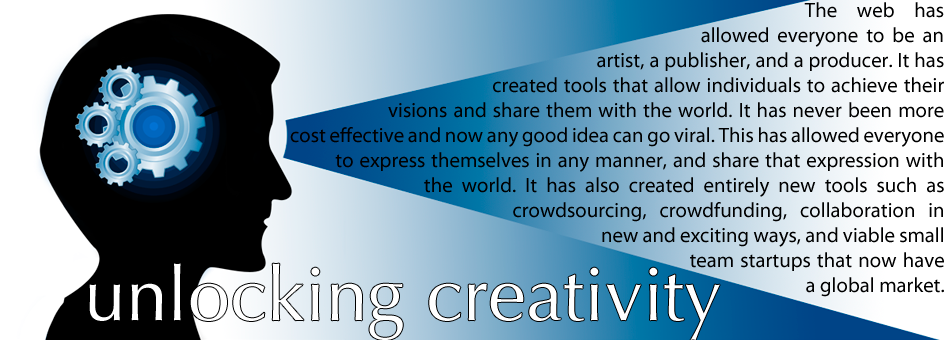
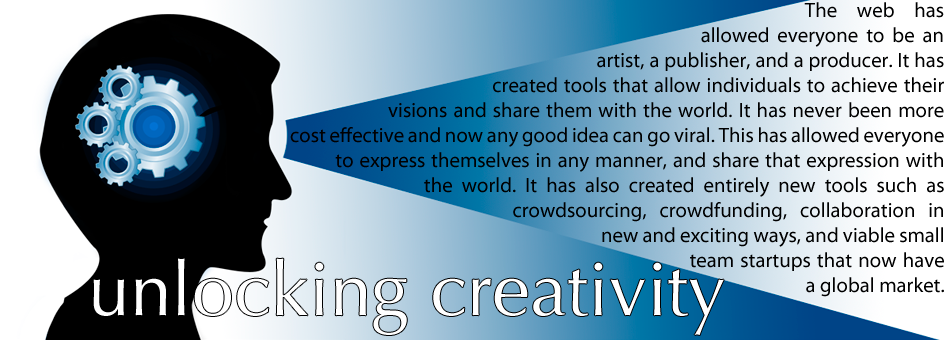
one less

Changed region(s): [[0.0916, 0.7647, 0.7632, 1.0]]

diff --git a/create.html b/create.html
@@ -86,7 +86,7 @@
 <div class="container">
       <!-- Main hero unit for a primary marketing message or call to action -->
       <div class="hero-unit create-title">
-      <br><br><br><br><br><br><br><br><br><br><br>
+      <br><br><br><br><br><br><br><br><br><br>
       </div>
 
       <!-- Example row of columns -->  
